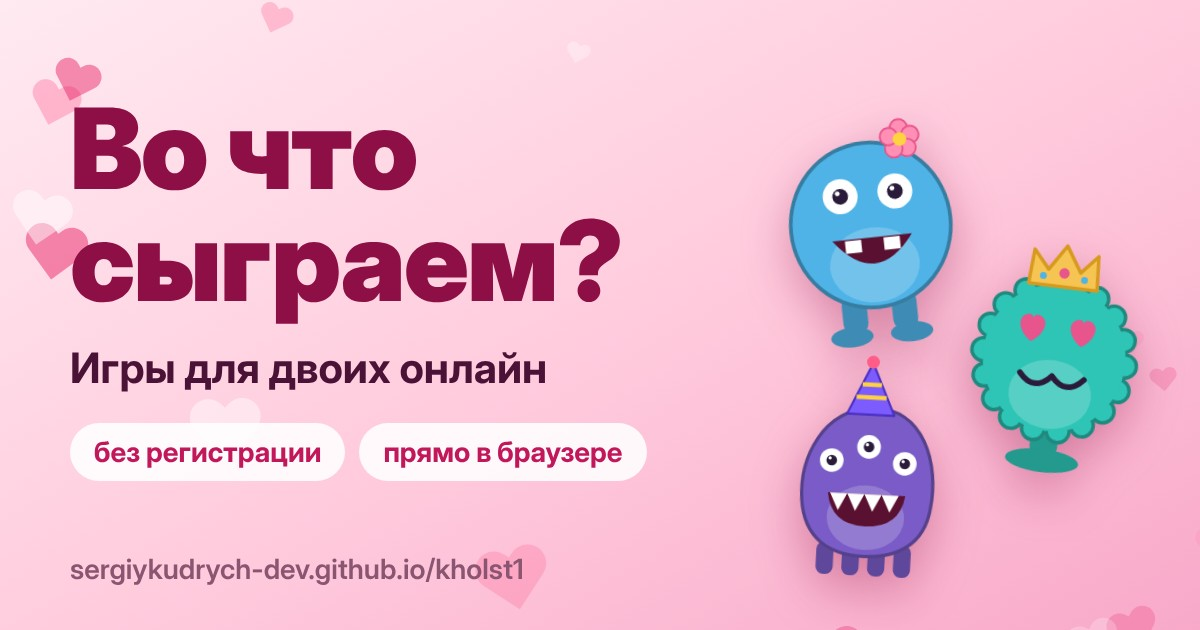
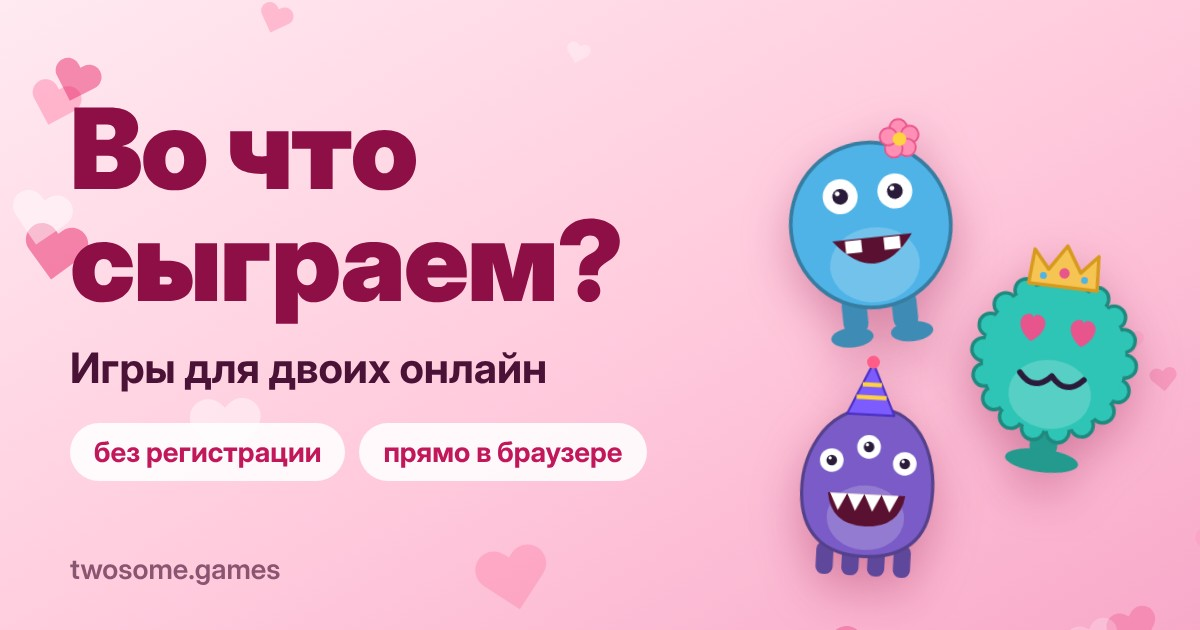
Add files via upload

Changed region(s): [[0.0617, 0.8746, 0.4317, 0.9349]]

diff --git a/index.html b/index.html
@@ -10,20 +10,20 @@
 <meta name="viewport" content="width=device-width, initial-scale=1, viewport-fit=cover, maximum-scale=1, user-scalable=no">
 <title>Во что сыграем?</title>
 <meta name="description" content="Романтические мини-игры для двоих: рисуйте вместе, угадывайте слова, создавайте монстров. Без регистрации, прямо в браузере.">
-<link rel="canonical" href="https://sergiykudrych-dev.github.io/kholst1/">
+<link rel="canonical" href="https://twosome.games/">
 <meta property="og:type" content="website">
 <meta property="og:site_name" content="Во что сыграем?">
 <meta property="og:locale" content="ru_RU">
 <meta property="og:title" content="Во что сыграем? — игры для двоих онлайн">
 <meta property="og:description" content="Романтические мини-игры для двоих: рисуйте вместе, угадывайте слова, создавайте монстров. Без регистрации, прямо в браузере.">
-<meta property="og:url" content="https://sergiykudrych-dev.github.io/kholst1/">
-<meta property="og:image" content="https://sergiykudrych-dev.github.io/kholst1/og.jpg">
+<meta property="og:url" content="https://twosome.games/">
+<meta property="og:image" content="https://twosome.games/og.jpg">
 <meta property="og:image:width" content="1200">
 <meta property="og:image:height" content="630">
 <meta name="twitter:card" content="summary_large_image">
 <meta name="twitter:title" content="Во что сыграем? — игры для двоих онлайн">
 <meta name="twitter:description" content="Романтические мини-игры для двоих: рисуйте вместе, угадывайте слова, создавайте монстров. Без регистрации, прямо в браузере.">
-<meta name="twitter:image" content="https://sergiykudrych-dev.github.io/kholst1/og.jpg">
+<meta name="twitter:image" content="https://twosome.games/og.jpg">
 <link rel="preconnect" href="https://fonts.googleapis.com">
 <link rel="preconnect" href="https://fonts.gstatic.com" crossorigin>
 <link href="https://fonts.googleapis.com/css2?family=Manrope:wght@500;700&family=Marck+Script&display=swap" rel="stylesheet">

diff --git a/monster.html b/monster.html
@@ -10,20 +10,20 @@
 <meta name="viewport" content="width=device-width, initial-scale=1, viewport-fit=cover, maximum-scale=1, user-scalable=no">
 <title>Создай монстра</title>
 <meta name="description" content="Давай вместе соберём монстра: ты выбираешь глаза, я рот. Открой ссылку, и мы начнём.">
-<link rel="canonical" href="https://sergiykudrych-dev.github.io/kholst1/monster.html">
+<link rel="canonical" href="https://twosome.games/monster.html">
 <meta property="og:type" content="website">
 <meta property="og:site_name" content="Во что сыграем?">
 <meta property="og:locale" content="ru_RU">
 <meta property="og:title" content="Создай монстра — сыграем?">
 <meta property="og:description" content="Давай вместе соберём монстра: ты выбираешь глаза, я рот. Открой ссылку, и мы начнём.">
-<meta property="og:url" content="https://sergiykudrych-dev.github.io/kholst1/monster.html">
-<meta property="og:image" content="https://sergiykudrych-dev.github.io/kholst1/og.jpg">
+<meta property="og:url" content="https://twosome.games/monster.html">
+<meta property="og:image" content="https://twosome.games/og.jpg">
 <meta property="og:image:width" content="1200">
 <meta property="og:image:height" content="630">
 <meta name="twitter:card" content="summary_large_image">
 <meta name="twitter:title" content="Создай монстра — сыграем?">
 <meta name="twitter:description" content="Давай вместе соберём монстра: ты выбираешь глаза, я рот. Открой ссылку, и мы начнём.">
-<meta name="twitter:image" content="https://sergiykudrych-dev.github.io/kholst1/og.jpg">
+<meta name="twitter:image" content="https://twosome.games/og.jpg">
 <link rel="preconnect" href="https://fonts.googleapis.com">
 <link rel="preconnect" href="https://fonts.gstatic.com" crossorigin>
 <link href="https://fonts.googleapis.com/css2?family=Manrope:wght@500;700&family=Marck+Script&display=swap" rel="stylesheet">

diff --git a/paint.html b/paint.html
@@ -10,20 +10,20 @@
 <meta name="viewport" content="width=device-width, initial-scale=1, viewport-fit=cover, maximum-scale=1, user-scalable=no">
 <title>Холст — рисуйте фигуры и картинки</title>
 <meta name="description" content="Тебя зовут рисовать вместе. Открой ссылку, и рисунок появится у обоих сразу.">
-<link rel="canonical" href="https://sergiykudrych-dev.github.io/kholst1/paint.html">
+<link rel="canonical" href="https://twosome.games/paint.html">
 <meta property="og:type" content="website">
 <meta property="og:site_name" content="Во что сыграем?">
 <meta property="og:locale" content="ru_RU">
 <meta property="og:title" content="Холст — рисуем вместе">
 <meta property="og:description" content="Тебя зовут рисовать вместе. Открой ссылку, и рисунок появится у обоих сразу.">
-<meta property="og:url" content="https://sergiykudrych-dev.github.io/kholst1/paint.html">
-<meta property="og:image" content="https://sergiykudrych-dev.github.io/kholst1/og.jpg">
+<meta property="og:url" content="https://twosome.games/paint.html">
+<meta property="og:image" content="https://twosome.games/og.jpg">
 <meta property="og:image:width" content="1200">
 <meta property="og:image:height" content="630">
 <meta name="twitter:card" content="summary_large_image">
 <meta name="twitter:title" content="Холст — рисуем вместе">
 <meta name="twitter:description" content="Тебя зовут рисовать вместе. Открой ссылку, и рисунок появится у обоих сразу.">
-<meta name="twitter:image" content="https://sergiykudrych-dev.github.io/kholst1/og.jpg">
+<meta name="twitter:image" content="https://twosome.games/og.jpg">
 <link rel="preconnect" href="https://fonts.googleapis.com">
 <link rel="preconnect" href="https://fonts.gstatic.com" crossorigin>
 <link href="https://fonts.googleapis.com/css2?family=Manrope:wght@500;700&family=Unbounded:wght@600&display=swap" rel="stylesheet">

diff --git a/tictactoe.html b/tictactoe.html
@@ -10,20 +10,20 @@
 <meta name="viewport" content="width=device-width, initial-scale=1, viewport-fit=cover, maximum-scale=1, user-scalable=no">
 <title>Крестики-нолики</title>
 <meta name="description" content="Тебя зовут сыграть вдвоём. Открой ссылку, и игра начнётся.">
-<link rel="canonical" href="https://sergiykudrych-dev.github.io/kholst1/tictactoe.html">
+<link rel="canonical" href="https://twosome.games/tictactoe.html">
 <meta property="og:type" content="website">
 <meta property="og:site_name" content="Во что сыграем?">
 <meta property="og:locale" content="ru_RU">
 <meta property="og:title" content="Крестики-нолики — сыграем?">
 <meta property="og:description" content="Тебя зовут сыграть вдвоём. Открой ссылку, и игра начнётся.">
-<meta property="og:url" content="https://sergiykudrych-dev.github.io/kholst1/tictactoe.html">
-<meta property="og:image" content="https://sergiykudrych-dev.github.io/kholst1/og.jpg">
+<meta property="og:url" content="https://twosome.games/tictactoe.html">
+<meta property="og:image" content="https://twosome.games/og.jpg">
 <meta property="og:image:width" content="1200">
 <meta property="og:image:height" content="630">
 <meta name="twitter:card" content="summary_large_image">
 <meta name="twitter:title" content="Крестики-нолики — сыграем?">
 <meta name="twitter:description" content="Тебя зовут сыграть вдвоём. Открой ссылку, и игра начнётся.">
-<meta name="twitter:image" content="https://sergiykudrych-dev.github.io/kholst1/og.jpg">
+<meta name="twitter:image" content="https://twosome.games/og.jpg">
 <link rel="preconnect" href="https://fonts.googleapis.com">
 <link rel="preconnect" href="https://fonts.gstatic.com" crossorigin>
 <link href="https://fonts.googleapis.com/css2?family=Manrope:wght@500;700&family=Marck+Script&display=swap" rel="stylesheet">

diff --git a/chips.html b/chips.html
@@ -10,20 +10,20 @@
 <meta name="viewport" content="width=device-width, initial-scale=1, viewport-fit=cover, maximum-scale=1, user-scalable=no">
 <title>Чипсы-сюрприз</title>
 <meta name="description" content="Тебя зовут сыграть вдвоём. Открой ссылку, и игра начнётся.">
-<link rel="canonical" href="https://sergiykudrych-dev.github.io/kholst1/chips.html">
+<link rel="canonical" href="https://twosome.games/chips.html">
 <meta property="og:type" content="website">
 <meta property="og:site_name" content="Во что сыграем?">
 <meta property="og:locale" content="ru_RU">
 <meta property="og:title" content="Чипсы-сюрприз — сыграем?">
 <meta property="og:description" content="Тебя зовут сыграть вдвоём. Открой ссылку, и игра начнётся.">
-<meta property="og:url" content="https://sergiykudrych-dev.github.io/kholst1/chips.html">
-<meta property="og:image" content="https://sergiykudrych-dev.github.io/kholst1/og.jpg">
+<meta property="og:url" content="https://twosome.games/chips.html">
+<meta property="og:image" content="https://twosome.games/og.jpg">
 <meta property="og:image:width" content="1200">
 <meta property="og:image:height" content="630">
 <meta name="twitter:card" content="summary_large_image">
 <meta name="twitter:title" content="Чипсы-сюрприз — сыграем?">
 <meta name="twitter:description" content="Тебя зовут сыграть вдвоём. Открой ссылку, и игра начнётся.">
-<meta name="twitter:image" content="https://sergiykudrych-dev.github.io/kholst1/og.jpg">
+<meta name="twitter:image" content="https://twosome.games/og.jpg">
 <link rel="preconnect" href="https://fonts.googleapis.com">
 <link rel="preconnect" href="https://fonts.gstatic.com" crossorigin>
 <link href="https://fonts.googleapis.com/css2?family=Manrope:wght@500;700&family=Marck+Script&display=swap" rel="stylesheet">

diff --git a/number.html b/number.html
@@ -10,20 +10,20 @@
 <meta name="viewport" content="width=device-width, initial-scale=1, viewport-fit=cover, maximum-scale=1, user-scalable=no">
 <title>Угадай число</title>
 <meta name="description" content="Тебя зовут сыграть вдвоём. Открой ссылку, и игра начнётся.">
-<link rel="canonical" href="https://sergiykudrych-dev.github.io/kholst1/number.html">
+<link rel="canonical" href="https://twosome.games/number.html">
 <meta property="og:type" content="website">
 <meta property="og:site_name" content="Во что сыграем?">
 <meta property="og:locale" content="ru_RU">
 <meta property="og:title" content="Угадай число — сыграем?">
 <meta property="og:description" content="Тебя зовут сыграть вдвоём. Открой ссылку, и игра начнётся.">
-<meta property="og:url" content="https://sergiykudrych-dev.github.io/kholst1/number.html">
-<meta property="og:image" content="https://sergiykudrych-dev.github.io/kholst1/og.jpg">
+<meta property="og:url" content="https://twosome.games/number.html">
+<meta property="og:image" content="https://twosome.games/og.jpg">
 <meta property="og:image:width" content="1200">
 <meta property="og:image:height" content="630">
 <meta name="twitter:card" content="summary_large_image">
 <meta name="twitter:title" content="Угадай число — сыграем?">
 <meta name="twitter:description" content="Тебя зовут сыграть вдвоём. Открой ссылку, и игра начнётся.">
-<meta name="twitter:image" content="https://sergiykudrych-dev.github.io/kholst1/og.jpg">
+<meta name="twitter:image" content="https://twosome.games/og.jpg">
 <link rel="preconnect" href="https://fonts.googleapis.com">
 <link rel="preconnect" href="https://fonts.gstatic.com" crossorigin>
 <link href="https://fonts.googleapis.com/css2?family=Manrope:wght@500;700&family=Marck+Script&display=swap" rel="stylesheet">

diff --git a/word.html b/word.html
@@ -10,20 +10,20 @@
 <meta name="viewport" content="width=device-width, initial-scale=1, viewport-fit=cover, maximum-scale=1, user-scalable=no">
 <title>Угадай слово</title>
 <meta name="description" content="Тебя зовут сыграть вдвоём. Открой ссылку, и игра начнётся.">
-<link rel="canonical" href="https://sergiykudrych-dev.github.io/kholst1/word.html">
+<link rel="canonical" href="https://twosome.games/word.html">
 <meta property="og:type" content="website">
 <meta property="og:site_name" content="Во что сыграем?">
 <meta property="og:locale" content="ru_RU">
 <meta property="og:title" content="Угадай слово — сыграем?">
 <meta property="og:description" content="Тебя зовут сыграть вдвоём. Открой ссылку, и игра начнётся.">
-<meta property="og:url" content="https://sergiykudrych-dev.github.io/kholst1/word.html">
-<meta property="og:image" content="https://sergiykudrych-dev.github.io/kholst1/og.jpg">
+<meta property="og:url" content="https://twosome.games/word.html">
+<meta property="og:image" content="https://twosome.games/og.jpg">
 <meta property="og:image:width" content="1200">
 <meta property="og:image:height" content="630">
 <meta name="twitter:card" content="summary_large_image">
 <meta name="twitter:title" content="Угадай слово — сыграем?">
 <meta name="twitter:description" content="Тебя зовут сыграть вдвоём. Открой ссылку, и игра начнётся.">
-<meta name="twitter:image" content="https://sergiykudrych-dev.github.io/kholst1/og.jpg">
+<meta name="twitter:image" content="https://twosome.games/og.jpg">
 <link rel="preconnect" href="https://fonts.googleapis.com">
 <link rel="preconnect" href="https://fonts.gstatic.com" crossorigin>
 <link href="https://fonts.googleapis.com/css2?family=Manrope:wght@500;700&family=Marck+Script&display=swap" rel="stylesheet">

diff --git a/egg.html b/egg.html
@@ -10,20 +10,20 @@
 <meta name="viewport" content="width=device-width, initial-scale=1, viewport-fit=cover, maximum-scale=1, user-scalable=no">
 <title>Не урони яйцо</title>
 <meta name="description" content="Тебя зовут сыграть вдвоём. Открой ссылку, и игра начнётся.">
-<link rel="canonical" href="https://sergiykudrych-dev.github.io/kholst1/egg.html">
+<link rel="canonical" href="https://twosome.games/egg.html">
 <meta property="og:type" content="website">
 <meta property="og:site_name" content="Во что сыграем?">
 <meta property="og:locale" content="ru_RU">
 <meta property="og:title" content="Не урони яйцо — сыграем?">
 <meta property="og:description" content="Тебя зовут сыграть вдвоём. Открой ссылку, и игра начнётся.">
-<meta property="og:url" content="https://sergiykudrych-dev.github.io/kholst1/egg.html">
-<meta property="og:image" content="https://sergiykudrych-dev.github.io/kholst1/og.jpg">
+<meta property="og:url" content="https://twosome.games/egg.html">
+<meta property="og:image" content="https://twosome.games/og.jpg">
 <meta property="og:image:width" content="1200">
 <meta property="og:image:height" content="630">
 <meta name="twitter:card" content="summary_large_image">
 <meta name="twitter:title" content="Не урони яйцо — сыграем?">
 <meta name="twitter:description" content="Тебя зовут сыграть вдвоём. Открой ссылку, и игра начнётся.">
-<meta name="twitter:image" content="https://sergiykudrych-dev.github.io/kholst1/og.jpg">
+<meta name="twitter:image" content="https://twosome.games/og.jpg">
 <link rel="preconnect" href="https://fonts.googleapis.com">
 <link rel="preconnect" href="https://fonts.gstatic.com" crossorigin>
 <link href="https://fonts.googleapis.com/css2?family=Manrope:wght@500;700&family=Marck+Script&display=swap" rel="stylesheet">

diff --git a/memory.html b/memory.html
@@ -10,20 +10,20 @@
 <meta name="viewport" content="width=device-width, initial-scale=1, viewport-fit=cover, maximum-scale=1, user-scalable=no">
 <title>Найди пару</title>
 <meta name="description" content="Тебя зовут сыграть вдвоём. Открой ссылку, и игра начнётся.">
-<link rel="canonical" href="https://sergiykudrych-dev.github.io/kholst1/memory.html">
+<link rel="canonical" href="https://twosome.games/memory.html">
 <meta property="og:type" content="website">
 <meta property="og:site_name" content="Во что сыграем?">
 <meta property="og:locale" content="ru_RU">
 <meta property="og:title" content="Найди пару — сыграем?">
 <meta property="og:description" content="Тебя зовут сыграть вдвоём. Открой ссылку, и игра начнётся.">
-<meta property="og:url" content="https://sergiykudrych-dev.github.io/kholst1/memory.html">
-<meta property="og:image" content="https://sergiykudrych-dev.github.io/kholst1/og.jpg">
+<meta property="og:url" content="https://twosome.games/memory.html">
+<meta property="og:image" content="https://twosome.games/og.jpg">
 <meta property="og:image:width" content="1200">
 <meta property="og:image:height" content="630">
 <meta name="twitter:card" content="summary_large_image">
 <meta name="twitter:title" content="Найди пару — сыграем?">
 <meta name="twitter:description" content="Тебя зовут сыграть вдвоём. Открой ссылку, и игра начнётся.">
-<meta name="twitter:image" content="https://sergiykudrych-dev.github.io/kholst1/og.jpg">
+<meta name="twitter:image" content="https://twosome.games/og.jpg">
 <link rel="preconnect" href="https://fonts.googleapis.com">
 <link rel="preconnect" href="https://fonts.gstatic.com" crossorigin>
 <link href="https://fonts.googleapis.com/css2?family=Manrope:wght@500;700&family=Marck+Script&display=swap" rel="stylesheet">
